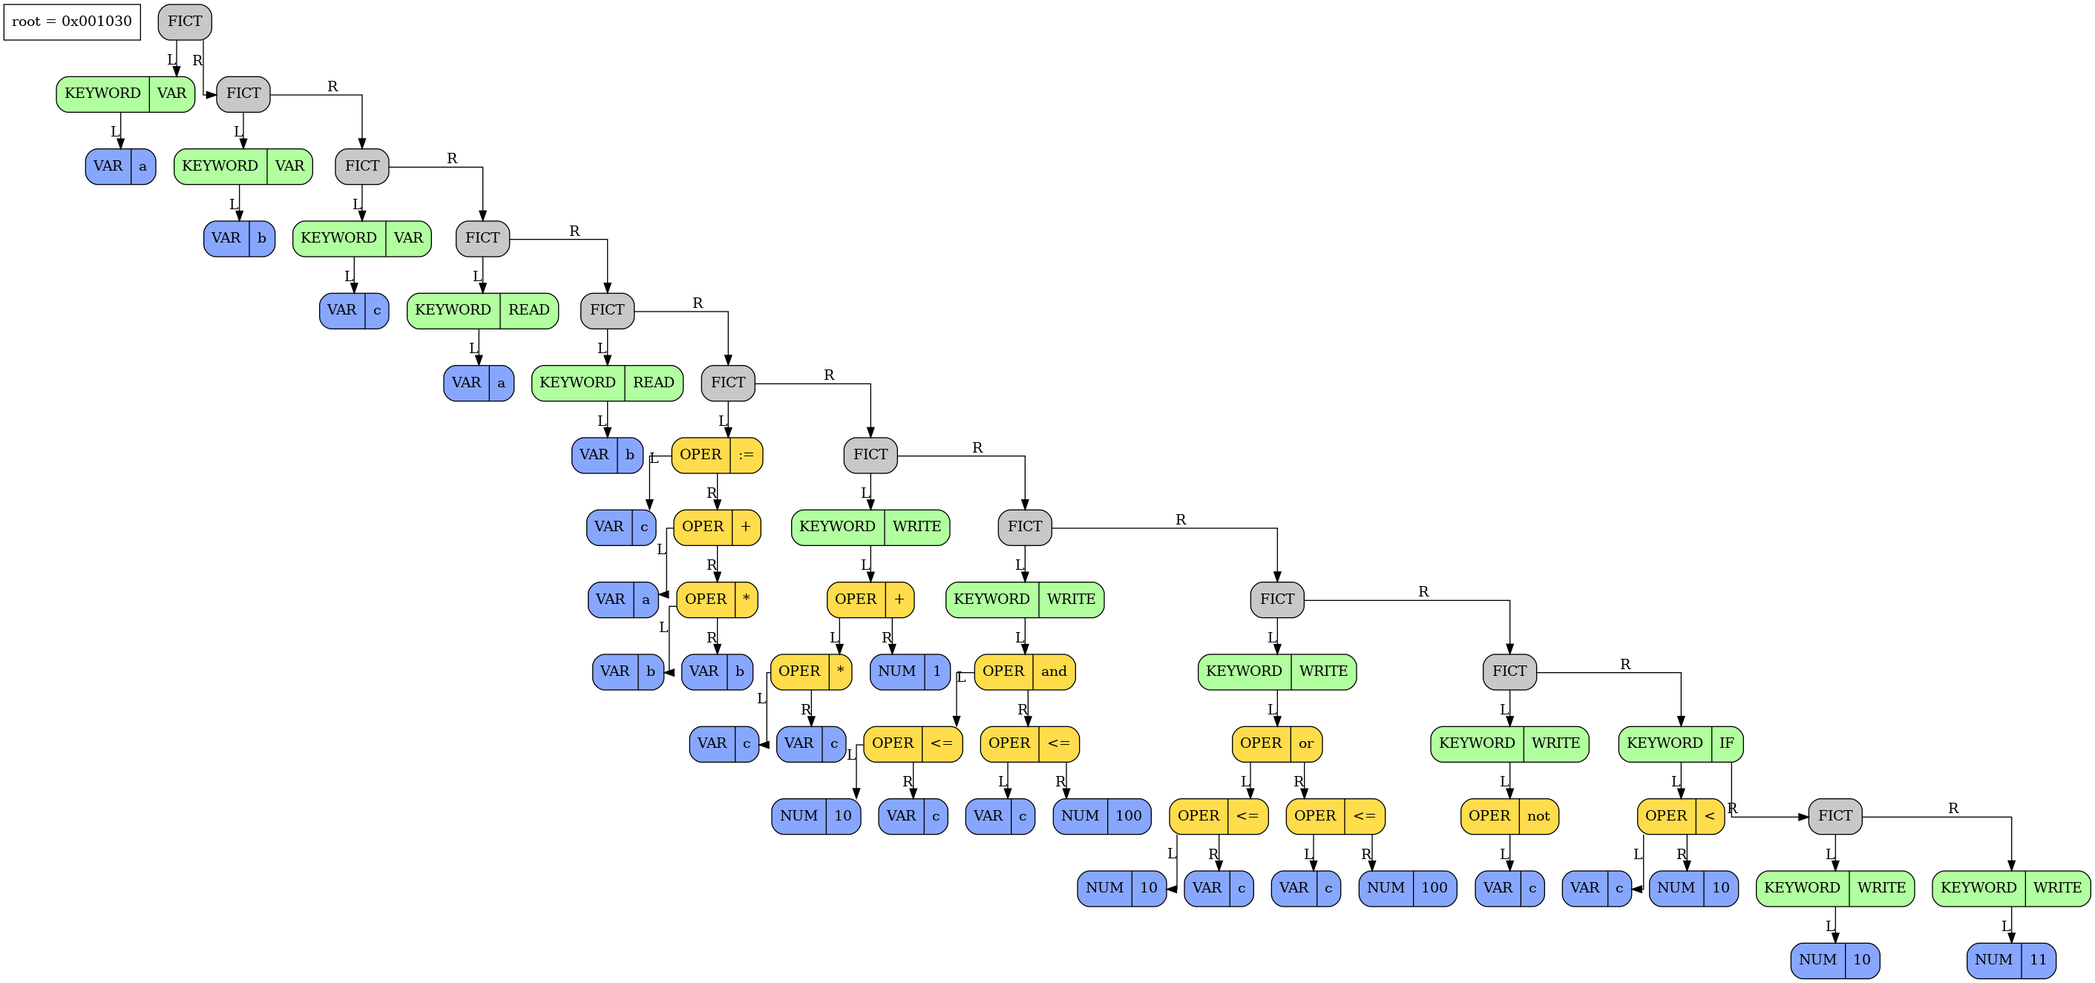
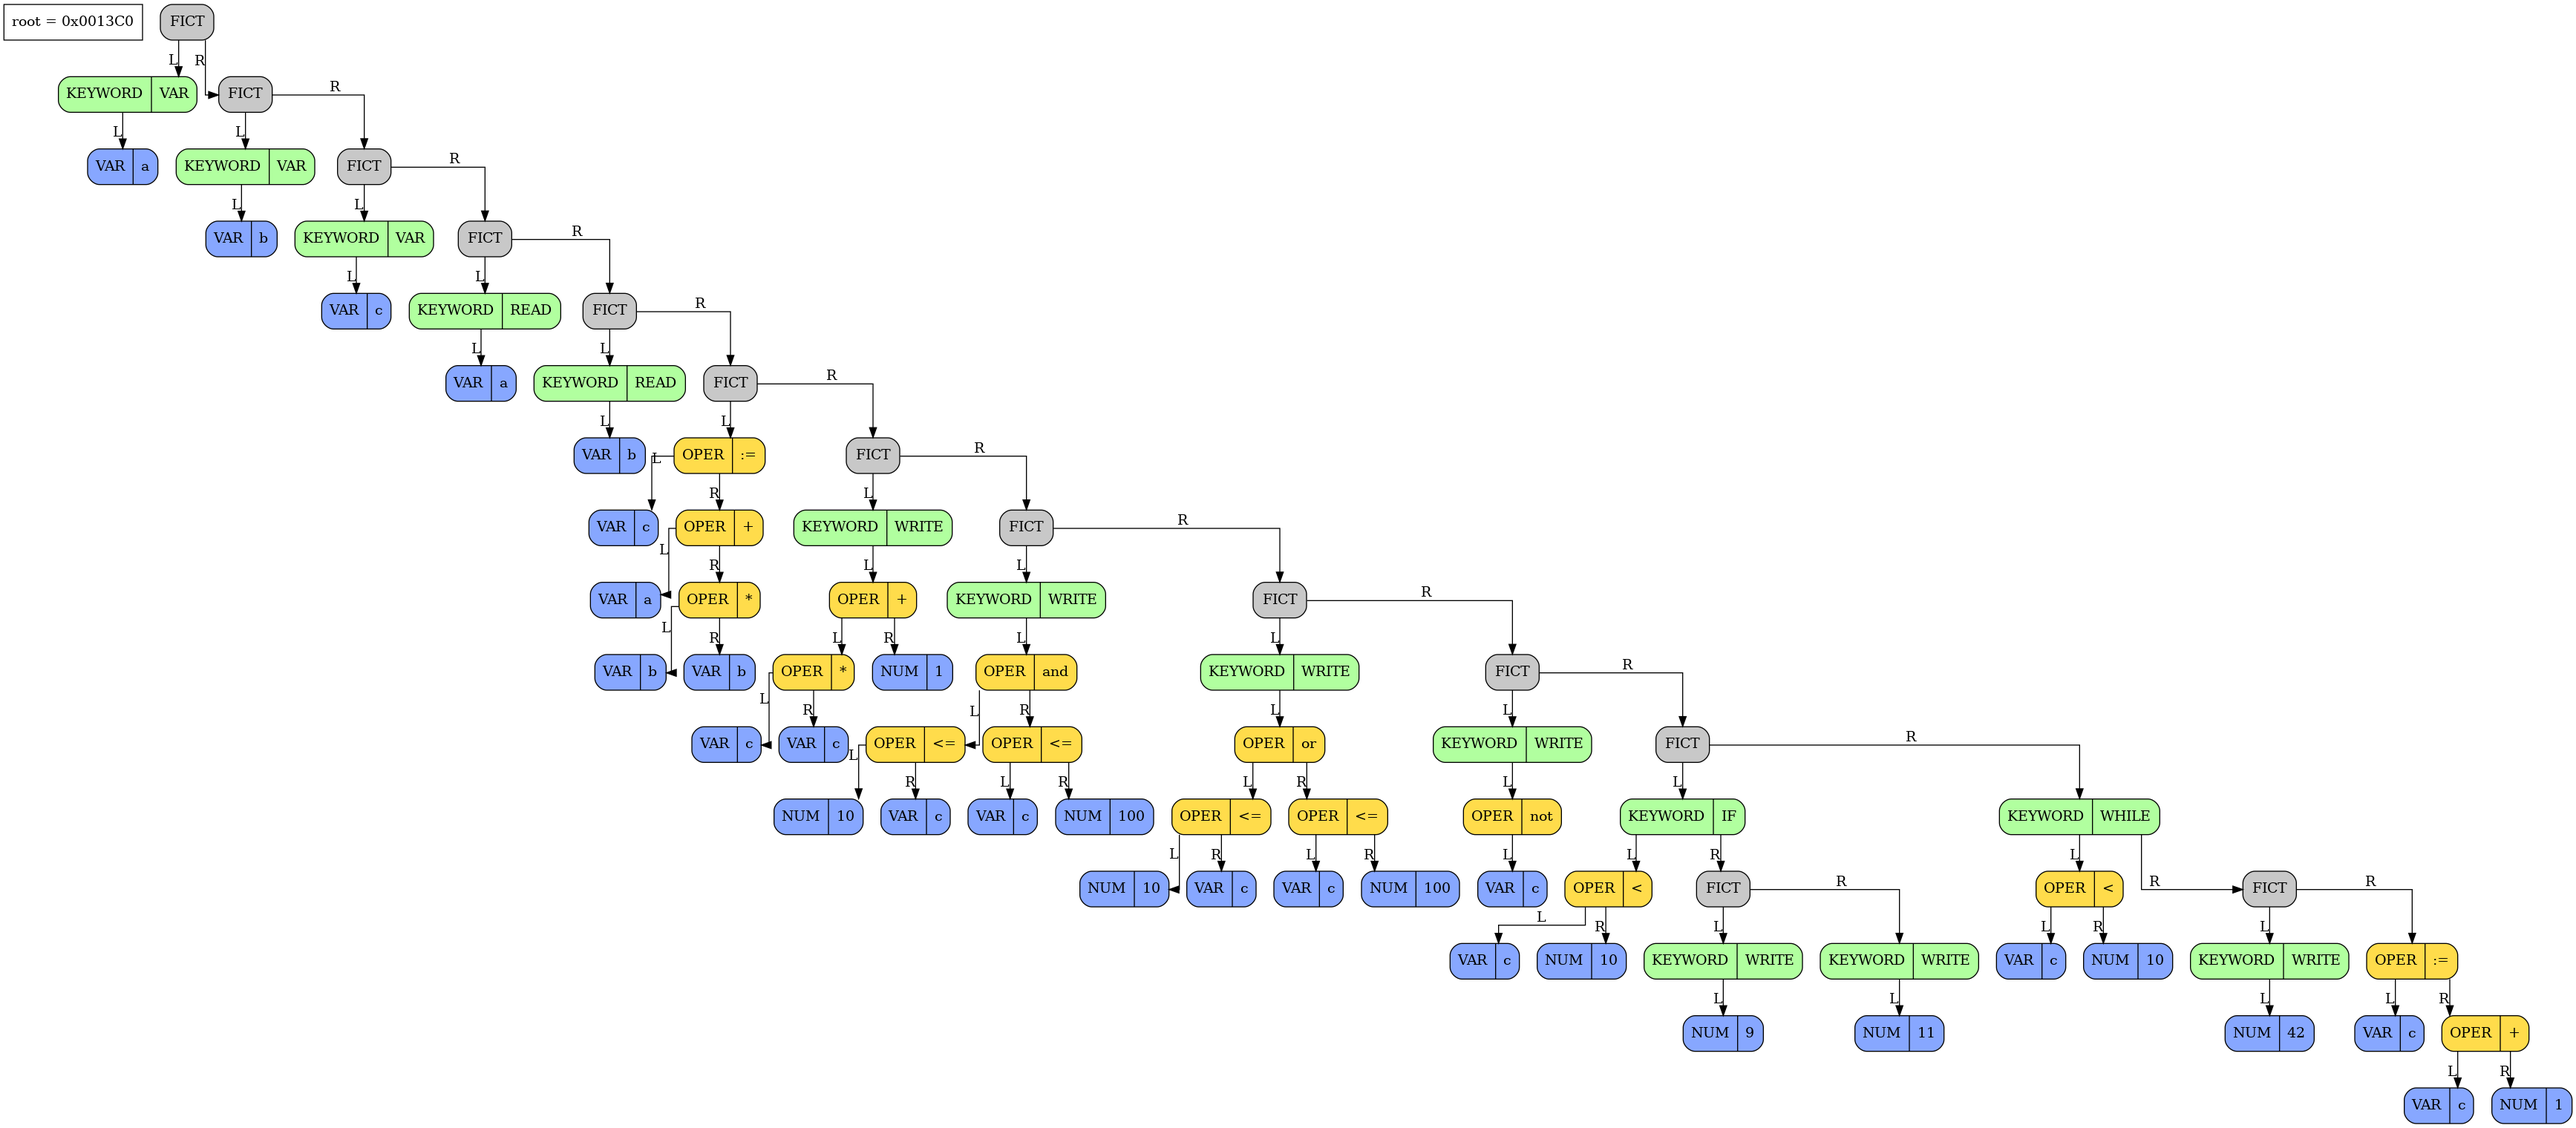
Add while

Changed region(s): [[0.0, 0.0, 1.0, 1.0]]

diff --git a/src/AST.cpp b/src/AST.cpp
@@ -125,6 +125,12 @@ void AST::ExecuteIf(const Node* node) {
     }
 }
 
+void AST::ExecuteWhile(const Node* node) {
+    while (ExecuteNode(node->left_)) {
+        ExecuteNode(node->right_);
+    }    
+}
+
 int AST::ExecuteKeyword(const Node* node) {
     switch (node->val_.keyword)
     {
@@ -160,7 +166,11 @@ int AST::ExecuteKeyword(const Node* node) {
 
         case Keyword::IF: {
             ExecuteIf(node);
+            return 0;
+        }
 
+        case Keyword::WHILE: {
+            ExecuteWhile(node);
             return 0;
         }
 

diff --git a/src/AST.hpp b/src/AST.hpp
@@ -36,6 +36,7 @@ private:
     int  ExecuteNode    (const Node* node);
     int  ExecuteKeyword (const Node* node);
     void ExecuteIf      (const Node* node);
+    void ExecuteWhile   (const Node* node);
     int  GetVarValue    (const std::string& var_name);
     void RecDelete      (Node* node);
 
